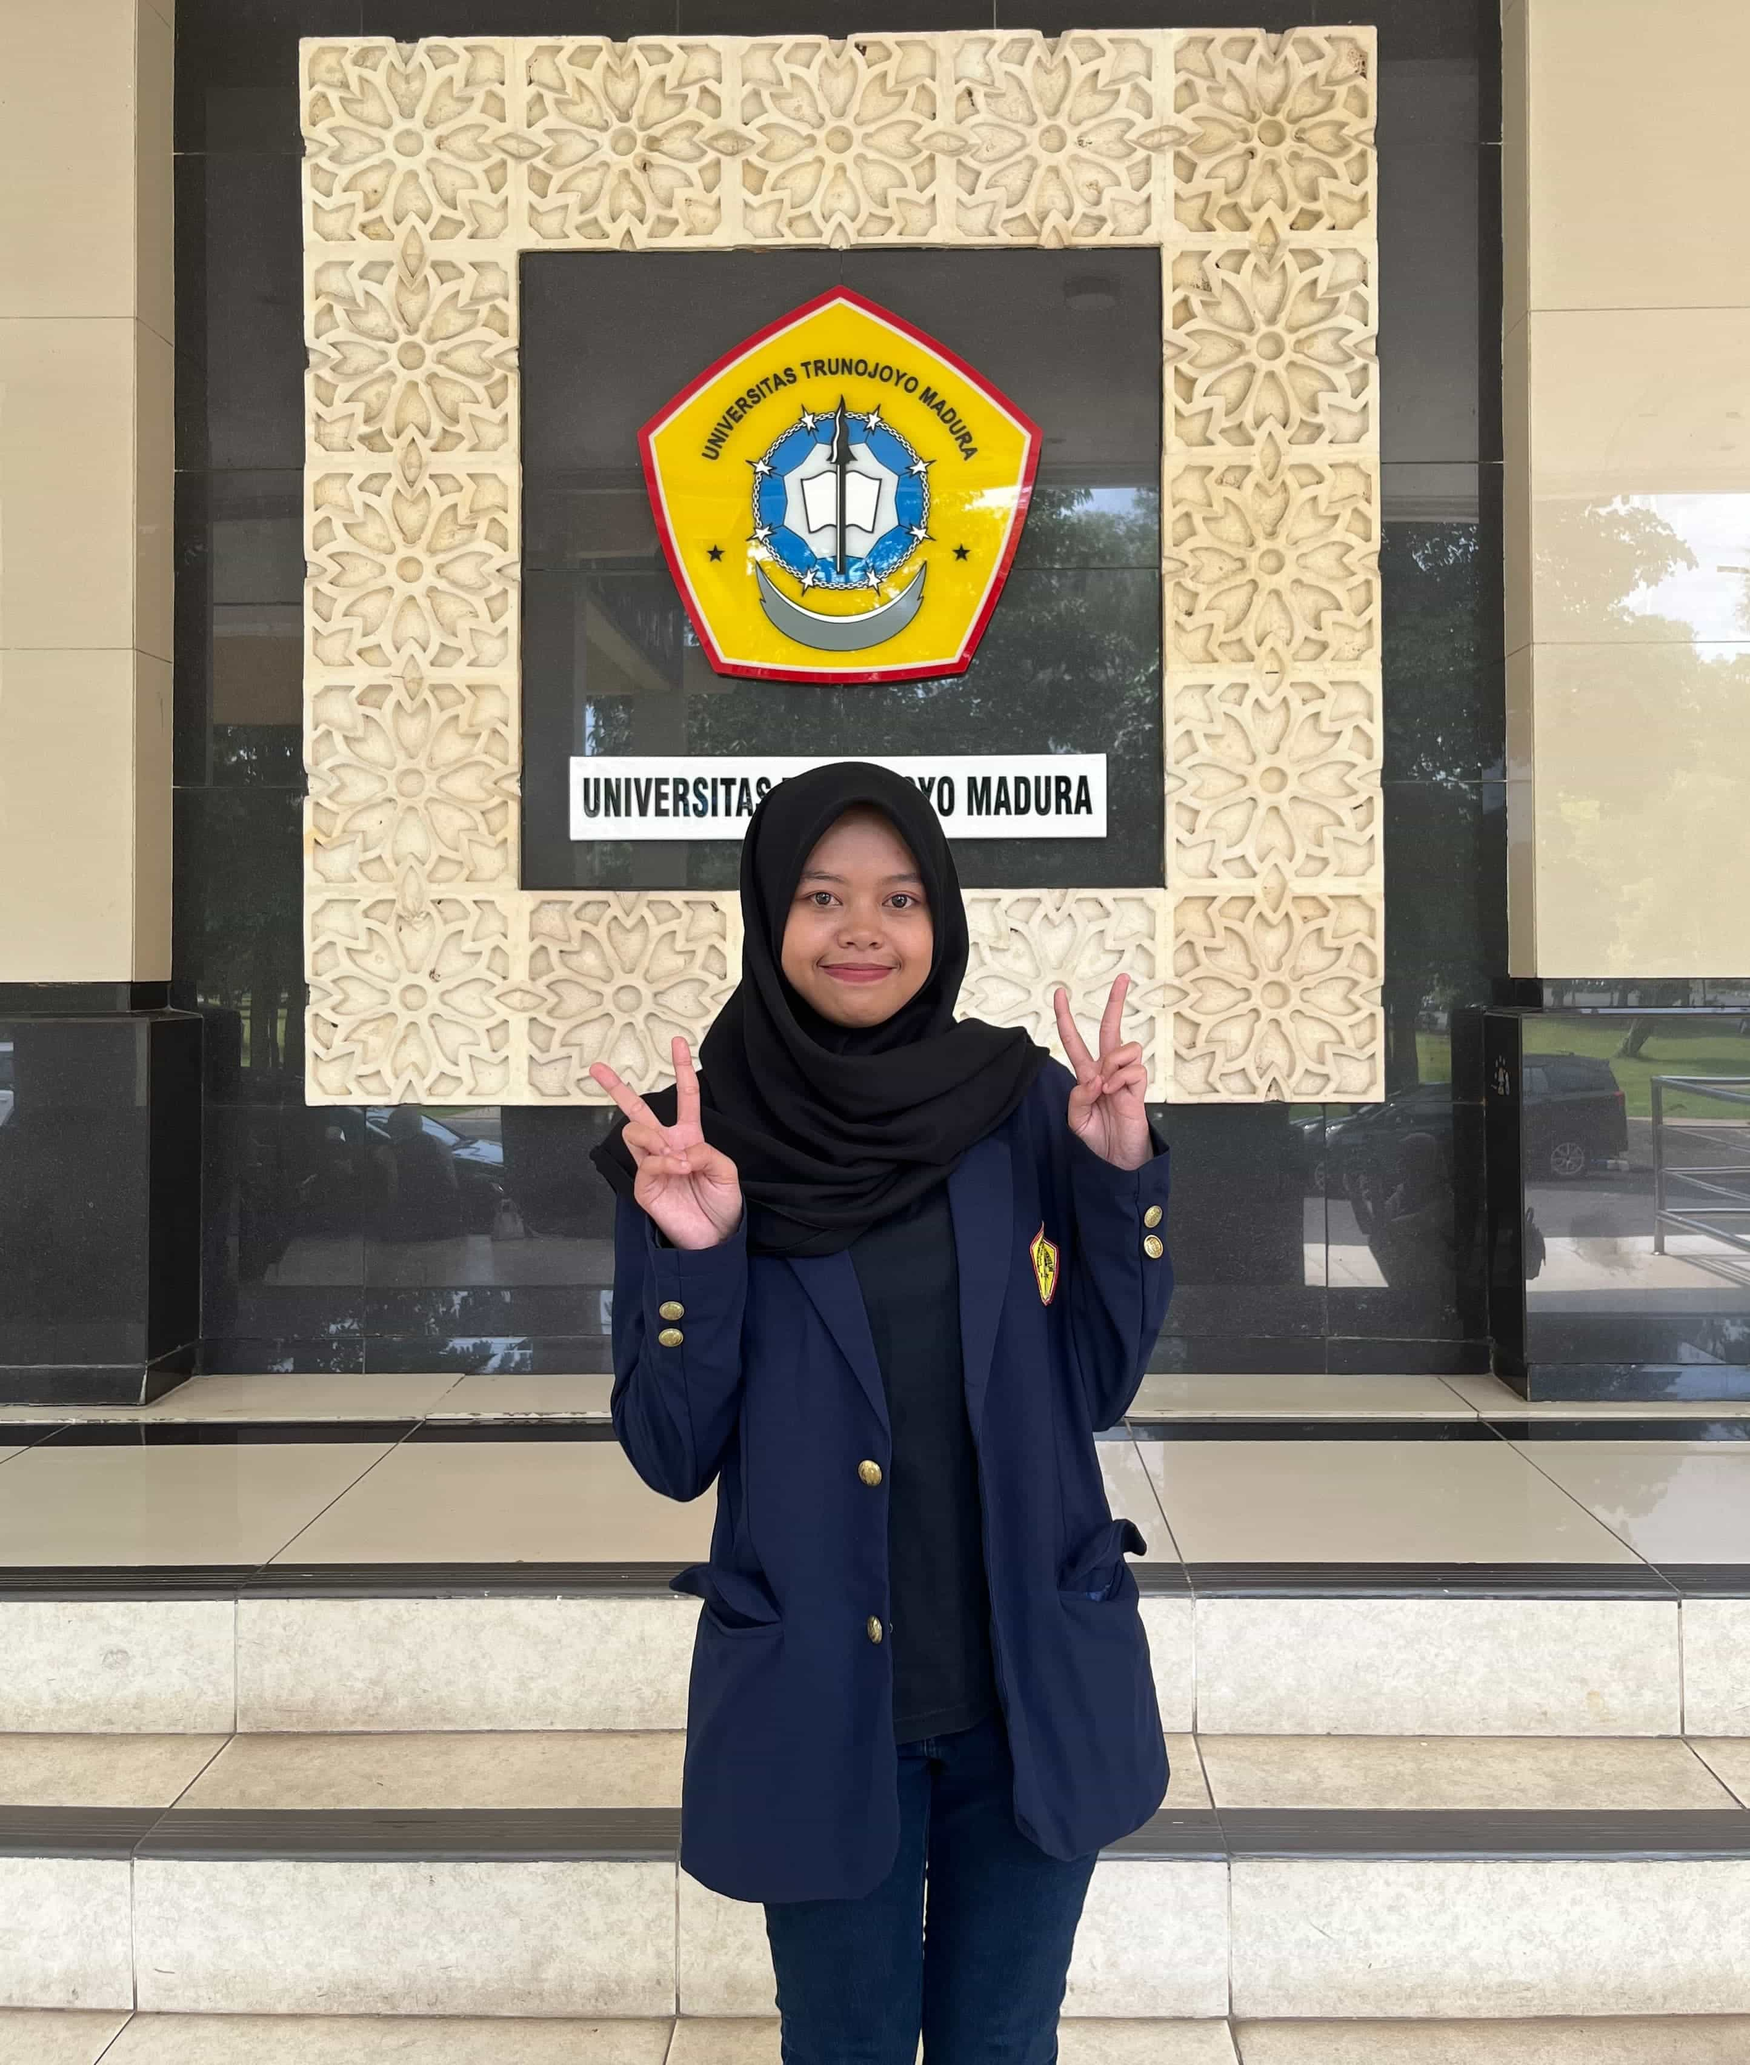
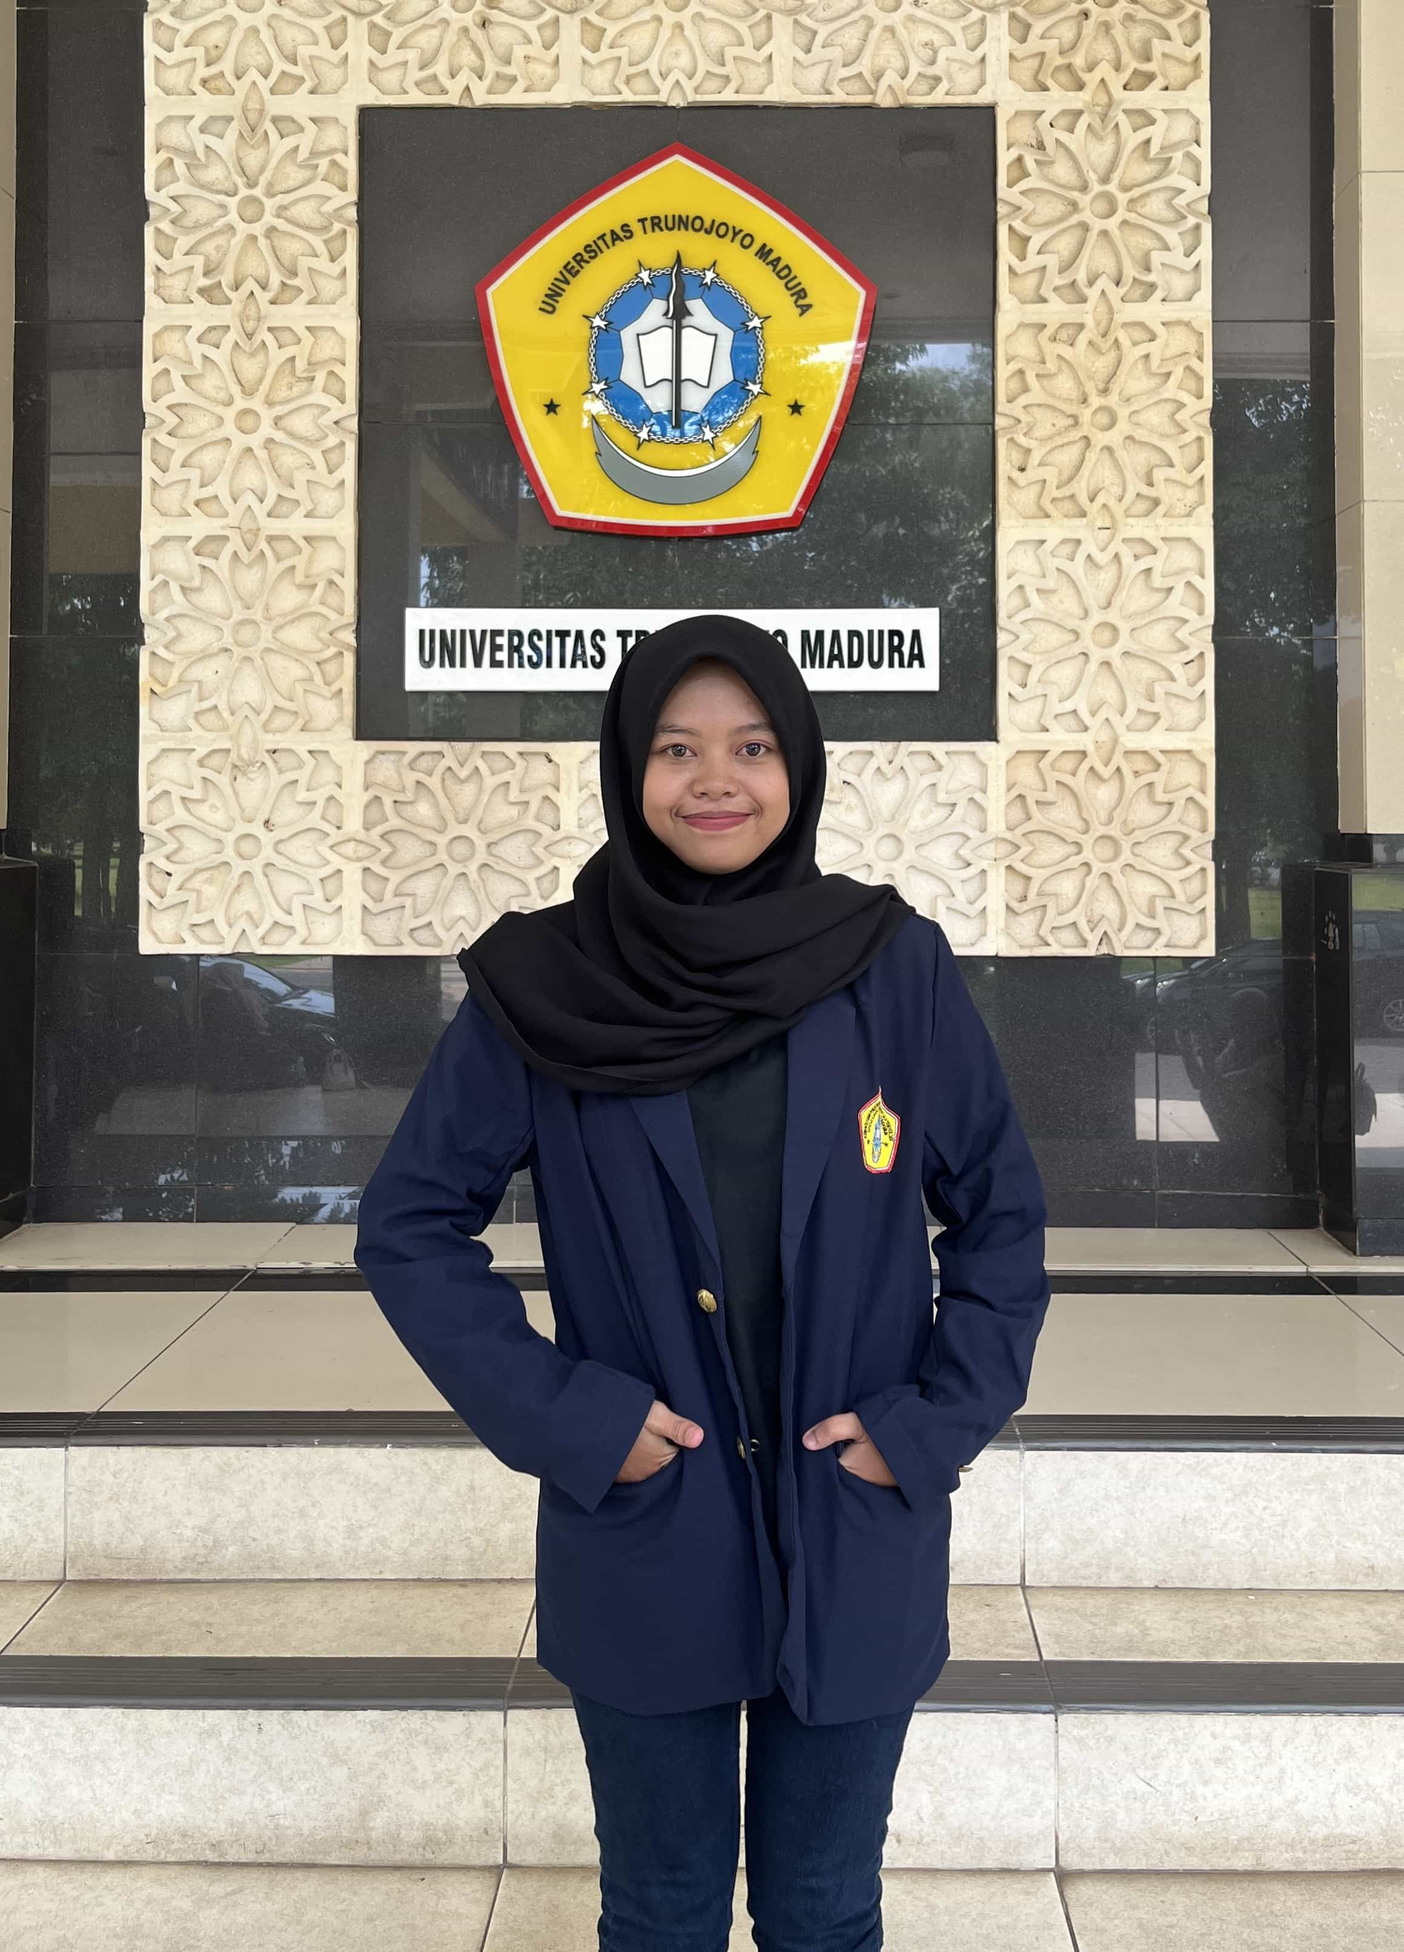
update

diff --git a/index.html b/index.html
@@ -165,12 +165,12 @@
                 </div>
 
                 <div class="profile-card">
-                    <img src="assets/img/imam.JPG" alt="Foto Peserta" class="profile-img">
+                    <img src="assets/img/birrur.JPG" alt="Foto Peserta" class="profile-img">
                     <div class="card-content">
-                        <h3>Imam Ghazali</h3>
-                        <p class="major">Teknik Mekatro</p>
+                        <h3>Birrur Rijaal</h3>
+                        <p class="major">Sistem Informasi</p>
                         <p class="origin">
-                            <span class="icon">📍</span> Labang, Bangkalan
+                            <span class="icon">📍</span> Dukun, Gresik
                         </p>
                     </div>
                 </div>

diff --git a/divisi/index.html b/divisi/index.html
@@ -234,8 +234,8 @@
                     <h3>Ningrum Kusuma</h3>
                     <p class="role">Sie. Konsumsi</p>
                     <div class="social-links">
-                        <a href="#"><i class="ri-instagram-line"></i></a>
-                        <a href="#"><i class="ri-tiktok-fill"></i></a>
+                        <a href="https://www.instagram.com/nrvm_22?igsh=eHQyMXZjczRrNTJu"><i class="ri-instagram-line"></i></a>
+                        <a href="https://www.tiktok.com/@nrvm22?_r=1&_t=ZS-92T1MqRBgEZ"><i class="ri-tiktok-fill"></i></a>
                     </div>
                 </div>
             </div>
